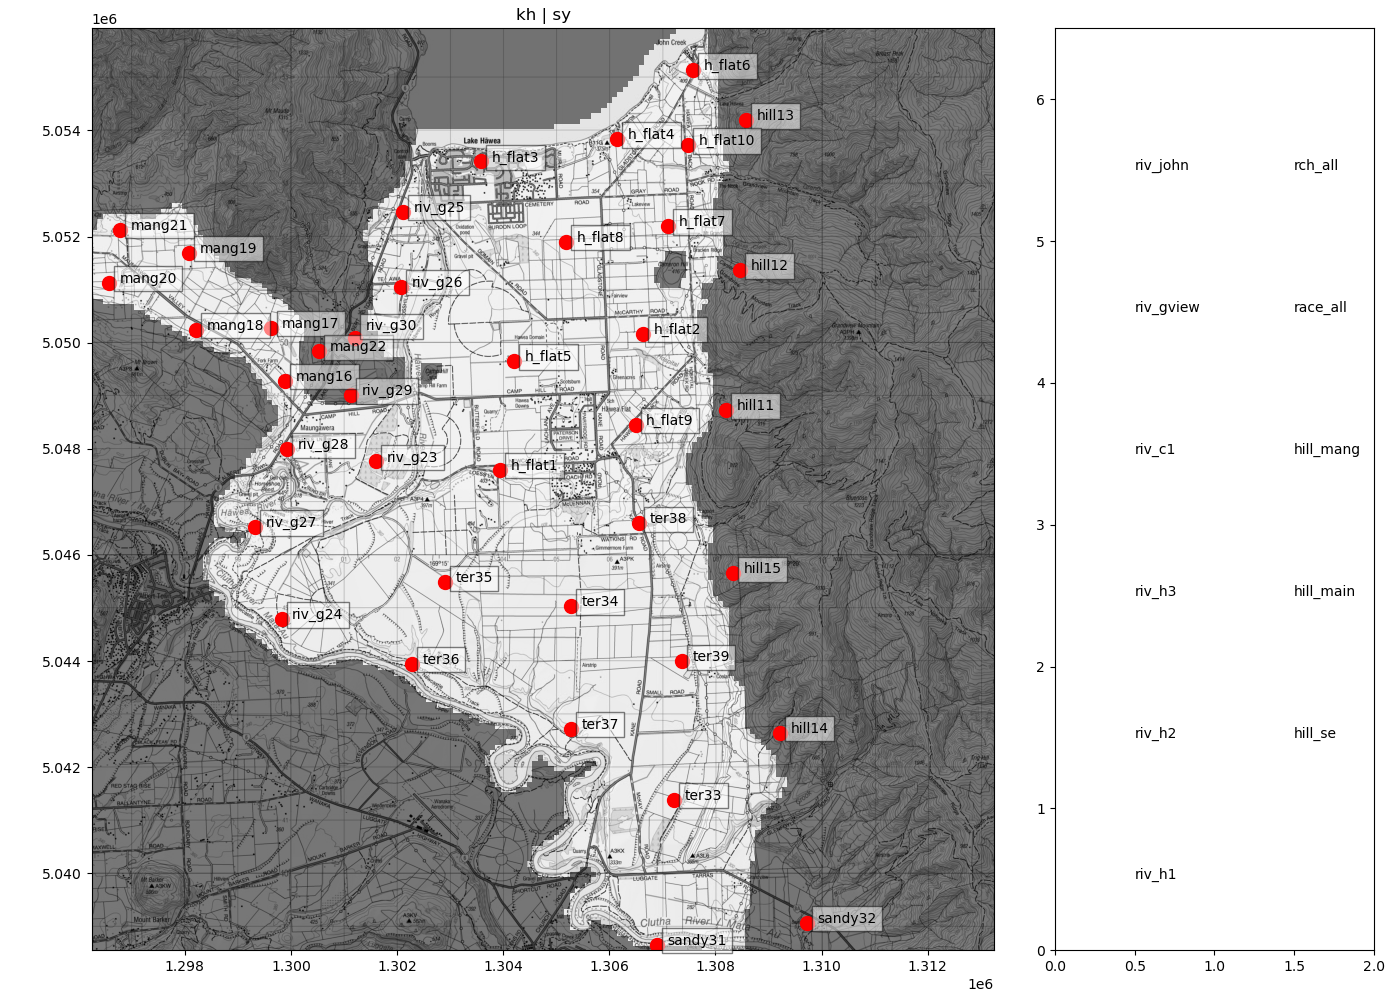
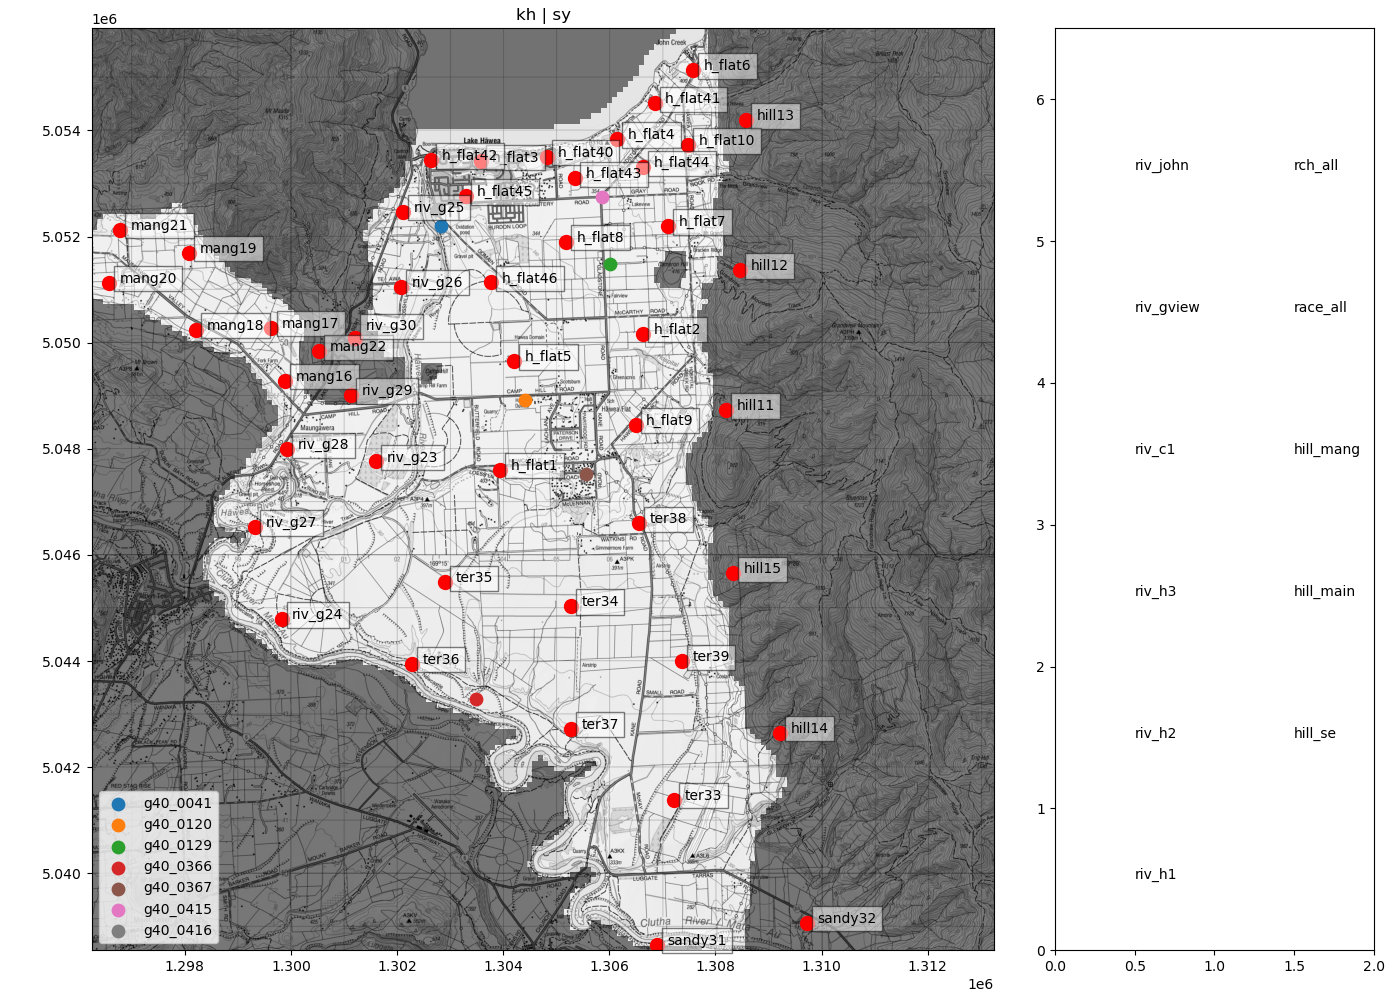
initialize structure_v12 increase pilot points along lake, second row of pilot points between lake and cemetry road pilotpoints added here are 40-46

diff --git a/optimisation/manual_optimisations/set_1.py b/optimisation/manual_optimisations/set_1.py
@@ -169,7 +169,71 @@ def near_lake_raise_lower():
     }
 
         for l, u, sy, lake in itertools.product(lower, inc, sy_vals, lakes)
-        ]
+    ]
+
+    opt_name = f'{branch}_{opt_name}'
+
+    run_manal_opt(opt_name, mod_params=new_params,
+                  safemode=True, replot=replot)
+
+
+def near_lake_raise_rl_lower():
+    print_myself()
+    opt_name = 'near_lake_raise_lower'
+
+    lower = [100, 50, 10, 5]
+    raise_lower = [10, 50, 100, 500, 1000]
+    inc = [500, 1000, 1500]
+    sy_vals = [0.005, 0.01, 0.05]
+    lakes = [5, 10, 50, 100]
+
+    num_runs = len(list(itertools.product(lower, raise_lower, inc, sy_vals, lakes)))
+    print(f'num_runs: {num_runs}')
+
+    new_params = [{
+        # kh
+        'kh_h_flat4': low,
+        'kh_h_flat3': low,
+        'kh_h_flat6': low,
+        'kh_h_flat40': low,
+        'kh_h_flat41': low,
+        'kh_h_flat42': low,
+
+
+        'kh_h_flat43': rl,
+        'kh_h_flat44': rl,
+        'kh_h_flat45': rl,
+        'kh_h_flat10': rl,
+        'kh_riv_g25': rl,
+
+        'kh_h_flat7': u,
+        'kh_h_flat8': u,
+        'kh_h_flat46': u,
+        'kh_riv_g26': u,
+
+        # sy
+        'sy_h_flat4': sy,
+        'sy_h_flat3': sy,
+        'sy_h_flat6': sy,
+        'sy_h_flat40': sy,
+        'sy_h_flat41': sy,
+        'sy_h_flat42': sy,
+        'sy_h_flat43': sy,
+        'sy_h_flat44': sy,
+        'sy_h_flat45': sy,
+        'sy_h_flat10': sy,
+        'sy_riv_g25': sy,
+        'sy_h_flat7': sy,
+        'sy_h_flat8': sy,
+        'sy_h_flat46': sy,
+        'sy_riv_g26': sy,
+
+        # lake
+        'kh_lake': lake
+    }
+
+        for low, rl, u, sy, lake in itertools.product(lower, raise_lower, inc, sy_vals, lakes)
+    ]
 
     opt_name = f'{branch}_{opt_name}'
 

diff --git a/optimisation/a_build_run_optimisation_version.py b/optimisation/a_build_run_optimisation_version.py
@@ -129,10 +129,10 @@ def build_test_model(model_ws, notes, start_param_vals=None, recalc=True):
 #  The pest optimisation will be run in unbacked_dir.joinpath(mversion,'optimisation')
 #  dont forget to update the git branch on tuke
 # make a new branch on major structural shifts
-mversion = 'post_manual_v11'
+mversion = 'init_v12'
 previous_mversion = 'init_v11'
-branch = 'structure_v11'
-previous_branch = 'structure_v10'
+branch = 'structure_v12'
+previous_branch = 'structure_v12'
 # todo to use previous parameters, put file here, else None
 param_file = None
 notes = f"""
@@ -146,7 +146,7 @@ notes = f"""
 noptmax = 300
 recalc = True
 build_model = True
-build_pest = True
+build_pest = False
 safemode = True
 local_cores = None  # set to a lower number of core if you plan on using the local machine at the same time as a run
 

diff --git a/model_parameterisation/plot_parameter_names.py b/model_parameterisation/plot_parameter_names.py
@@ -5,7 +5,7 @@ on: 28/11/22
 import matplotlib.pyplot as plt
 from model_build.project_model_tools import smt
 from model_parameterisation.inital_parametersiation import *
-from pilot_points import get_pilot_point_locations
+from model_parameterisation.pilot_points import get_pilot_point_locations
 from targets_and_sensitive_sites.head_targets import plot_hds_regular_locator
 from pathlib import Path
 from model_build.utils import get_colors
